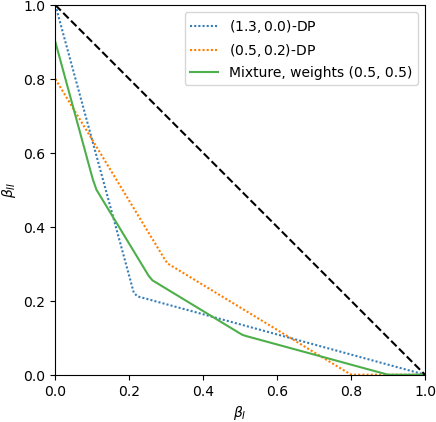
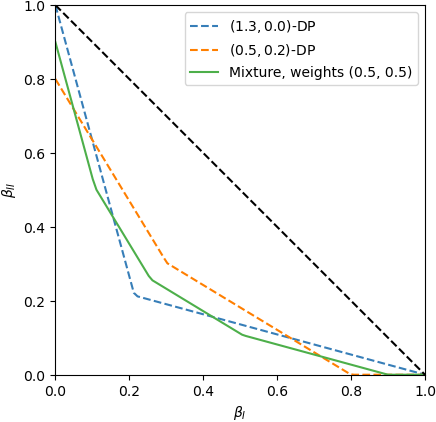
added approximation from above for non-smooth tradeoff functions

diff --git a/src/main.py b/src/main.py
@@ -2,8 +2,9 @@ import numpy as np
 
 from base.tradeoff_function import TradeOffFunction
 from base.utils import plot_multiple_functions, COLOR_1, COLOR_2, COLOR_3
-from f_dp_approximation.gaussian_tradeoff import GaussianTradeoff
-from f_dp_approximation.laplace_tradeoff import LaplaceTradeoff
+from f_dp_approximation.approximations import multi_dp_approx_above
+from f_dp_approximation.smooth_approximation.gaussian_tradeoff import GaussianTradeoff
+from f_dp_approximation.smooth_approximation.laplace_tradeoff import LaplaceTradeoff
 from main_theorems.heterogeneous_version import privacy_region_composition_double_dp_heterogeneous_comp, \
     privacy_region_composition_heterogeneous
 from main_theorems.other_composition_theorems import (privacy_region_composition_exact, tv_of_eps_delta,
@@ -46,8 +47,8 @@ def mixture_example(alpha_1,eps_1, delta_1, eps_2, delta_2, title):
                                              f"Mixture, weights ({alpha_1}, {alpha_2})"
                                              ],
                             [
-                                dotted_custom,
-                                dotted_custom,
+                                "dashed",
+                                "dashed",
                                 "solid"
                             ],
                             save_to=png(title)
@@ -192,8 +193,8 @@ def gaussian_tradeoff_approx(mu, title):
     function.
     """
     g_mu = GaussianTradeoff(mu)
-    g_mu_approx_below = g_mu.approx_from_below()
-    g_mu_approx_above = g_mu.approx_from_above()
+    g_mu_approx_below = g_mu.approx_from_below_2_dp()
+    g_mu_approx_above = g_mu.approx_from_above_2_dp()
     plot_multiple_functions(
         [
             g_mu,
@@ -220,8 +221,8 @@ def gaussian_compos_approx(mu, k, title):
     mu_composed = np.sqrt(k) * mu
     g_mu = GaussianTradeoff(mu)
     g_mu_composed = GaussianTradeoff(mu_composed)
-    g_mu_approx_below = g_mu.approx_from_below()
-    g_mu_approx_above = g_mu.approx_from_above()
+    g_mu_approx_below = g_mu.approx_from_below_2_dp()
+    g_mu_approx_above = g_mu.approx_from_above_2_dp()
 
     eps_ls = g_mu_approx_below.get_eps_list()
     delta_ls = g_mu_approx_below.get_delta_list()
@@ -262,8 +263,8 @@ def gaussian_tradeoff_and_compos_approx(mu, k, title):
     mu_composed = np.sqrt(k) * mu
     g_mu = GaussianTradeoff(mu)
     g_mu_composed = GaussianTradeoff(mu_composed)
-    g_mu_approx_below = g_mu.approx_from_below()
-    g_mu_approx_above = g_mu.approx_from_above()
+    g_mu_approx_below = g_mu.approx_from_below_2_dp()
+    g_mu_approx_above = g_mu.approx_from_above_2_dp()
 
     eps_ls = g_mu_approx_below.get_eps_list()
     delta_ls = g_mu_approx_below.get_delta_list()
@@ -317,8 +318,8 @@ def gaussian_compos_approx_two_compos(mu, k1, k2, title):
     g_mu_composed_k1 = GaussianTradeoff(mu_composed_k1)
     g_mu_composed_k2 = GaussianTradeoff(mu_composed_k2)
 
-    g_mu_approx_below = g_mu.approx_from_below()
-    g_mu_approx_above = g_mu.approx_from_above()
+    g_mu_approx_below = g_mu.approx_from_below_2_dp()
+    g_mu_approx_above = g_mu.approx_from_above_2_dp()
 
     eps_ls = g_mu_approx_below.get_eps_list()
     delta_ls = g_mu_approx_below.get_delta_list()
@@ -380,8 +381,8 @@ def gaussian_compos_approx_tradeoff_and_two_compos(mu, k1, k2, title):
     g_mu_composed_k1 = GaussianTradeoff(mu_composed_k1)
     g_mu_composed_k2 = GaussianTradeoff(mu_composed_k2)
 
-    g_mu_approx_below = g_mu.approx_from_below()
-    g_mu_approx_above = g_mu.approx_from_above()
+    g_mu_approx_below = g_mu.approx_from_below_2_dp()
+    g_mu_approx_above = g_mu.approx_from_above_2_dp()
 
     eps_ls = g_mu_approx_below.get_eps_list()
     delta_ls = g_mu_approx_below.get_delta_list()
@@ -439,8 +440,8 @@ def laplace_tradeoff_approx(eps, title):
     Plot the double-DP lower and upper approximations of the Laplace trade-off composition.
     """
     laplace_eps = LaplaceTradeoff(eps)
-    lap_eps_approx_below = laplace_eps.approx_from_below()
-    laps_eps_approx_above = laplace_eps.approx_from_above()
+    lap_eps_approx_below = laplace_eps.approx_from_below_2_dp()
+    laps_eps_approx_above = laplace_eps.approx_from_above_2_dp()
     plot_multiple_functions(
         [
             laplace_eps,
@@ -451,6 +452,38 @@ def laplace_tradeoff_approx(eps, title):
             f"Laplace({eps})-DP",
             "Approx below",
             "Approx above",
+        ],
+        save_to=png(title)
+    )
+
+def smooth_vs_nonsmooth_above_2dp_approx_gaussian(mu, title):
+    """
+    Compare 2-DP approximations of GDP, assuming smoothness vs not assuming smoothness.
+    """
+    gaussian = GaussianTradeoff(mu)
+    smooth_approx = gaussian.approx_from_above_2_dp()
+    nonsmooth_approx = multi_dp_approx_above(gaussian, 2)
+
+    plot_multiple_functions(
+        [
+            gaussian,
+            nonsmooth_approx,
+            smooth_approx
+        ],
+        [
+            "Gaussian",
+            "Non-smooth Approx",
+            "Smooth Approx"
+        ],
+        [
+            "solid",
+            "dashed",
+            "dotted"
+        ],
+        [
+            COLOR_1,
+            COLOR_2,
+            COLOR_3
         ],
         save_to=png(title)
     )
@@ -476,3 +509,4 @@ if __name__ == "__main__":
     gaussian_compos_approx_tradeoff_and_two_compos(k1=3, k2=10, mu=1, title="gaussian_tradeoff_and_2_compos")
     gaussian_compos_approx_tradeoff_and_two_compos(k1=3, k2=10, mu=0.05, title="gaussian_tradeoff_and_2_compos_small")
     gaussian_tradeoff_and_compos_approx(mu=0.05, k=3, title="gaussian_tradeoff_and_compos_approx_small_single_reg")
+    smooth_vs_nonsmooth_above_2dp_approx_gaussian(mu=1, title="smooth_vs_nonsmooth_2dp_approx_gaussian_above")

diff --git a/src/f_dp_approximation/approximations.py b/src/f_dp_approximation/approximations.py
@@ -1,0 +1,115 @@
+from base.definitions import *
+from base.tradeoff_function import TradeOffFunction
+from multi_dp_mixture.dp_functions import MultiEpsDeltaTradeoff
+
+
+def __upper_approx_golden_section(
+        f: TradeOffFunction,
+        n: int,
+        tol=1e-6,
+        max_iter=1000
+) -> Array:
+    """
+    Finds the partition of [0, c] into n intervals minimizing the area
+    of the n piece piecewise linear upper bound of a trade-off function f.
+    Uses the golden section algorithm.
+
+    :param f: The trade-off function to approximate from above.
+    :type f: TradeOffFunction
+
+    :param n: The number of intervals to partition [0, c].
+    :type n: int
+
+    :param tol: The tolerance for convergence.
+    :type tol: float
+
+    :param max_iter: The maximum number of iterations for the algorithm.
+    :type max_iter: int
+
+    :return: An array of length n containing the partition points.
+    :rtype: Array
+    """
+
+    c = f.fixed_point()
+    p = np.linspace(0, c, n + 1)
+
+    phi = (np.sqrt(5) + 1) / 2
+    resphi = 2 - phi
+
+    for iteration in range(max_iter):
+        max_change = 0.0
+
+        for k in range(1, n):
+            x_prev = p[k - 1]
+            x_next = p[k + 1]
+
+            def trapezoid_area(x_k):
+                return (x_k - x_prev) * (f(x_prev) + f(x_k)) + \
+                    (x_next - x_k) * (f(x_k) + f(x_next))
+
+            a, b = x_prev, x_next
+            x1 = a + resphi * (b - a)
+            x2 = b - resphi * (b - a)
+
+            f1 = trapezoid_area(x1)
+            f2 = trapezoid_area(x2)
+
+            while (b - a) > tol * 0.1: # Tighter tolerance for the 1D search
+                if f1 < f2:
+                    b = x2
+                    x2 = x1
+                    f2 = f1
+                    x1 = a + resphi * (b - a)
+                    f1 = trapezoid_area(x1)
+                else:
+                    a = x1
+                    x1 = x2
+                    f1 = f2
+                    x2 = b - resphi * (b - a)
+                    f2 = trapezoid_area(x2)
+
+            x_new = (a + b) / 2
+
+            # Track maximum change for convergence checking
+            change = np.abs(p[k] - x_new)
+            if change > max_change:
+                max_change = change
+
+            p[k] = x_new
+
+        if max_change < tol:
+            break
+
+    return p
+
+def multi_dp_approx_above(f: TradeOffFunction, n: int) -> MultiEpsDeltaTradeoff:
+    """
+    Compute the best L1 approximation of the trade-off function f from above by an n-DP trade-off function.
+
+    :param f: trade-off function to approximate:
+    :type f: TradeOffFunction
+
+    :param n: number of DP degrees of freedom.
+    :type n: int
+
+    :return: MultiEpsDeltaTradeoff object representing the approximation.
+    :rtype: MultiEpsDeltaTradeoff
+    """
+    p = __upper_approx_golden_section(f, n)
+    p = np.array(sorted(np.unique(p)))
+
+    slopes = np.zeros(len(p)-1)
+    offsets = np.zeros(len(p)-1)
+
+    i = 0
+    while i < len(p)-1:
+        slope = (f(p[i+1]) - f(p[i]))/(p[i+1] - p[i])
+        offset = f(p[i]) - slope * p[i]
+
+        slopes[i] = slope
+        offsets[i] = offset
+        i += 1
+
+    return MultiEpsDeltaTradeoff.from_slopes_and_offsets(slopes, offsets)
+
+

diff --git a/src/multi_dp_mixture/dp_functions.py b/src/multi_dp_mixture/dp_functions.py
@@ -3,6 +3,7 @@ from multi_dp_mixture.piecewise_affine import PiecewiseAffine
 from base.definitions import *
 
 class MultiEpsDeltaTradeoff(PiecewiseAffine, TradeOffFunction):
+
     def __init__(self, eps_ls: Array, delta_ls: Array):
         """
         Represents the tradeoff function of a mechanism with multiple (epsilon, delta)-DP constraints.
@@ -30,11 +31,28 @@ class MultiEpsDeltaTradeoff(PiecewiseAffine, TradeOffFunction):
 
         super().__init__(slopes, intercepts, domain_start=0., domain_end=1., bounded=True)
 
+        self._fixed_point = self.__compute_fixed_point()
+
     def get_eps_list(self) -> Array:
         return self._eps_ls
 
     def get_delta_list(self) -> Array:
         return self._delta_ls
+
+    def fixed_point(self) -> float:
+        return self._fixed_point
+
+    def __compute_fixed_point(self) -> float:
+        candidates = self._intercepts / (1 - self._slopes)
+        values = np.abs(self(candidates) - candidates)
+        return candidates[np.argmin(values)]
+
+    @staticmethod
+    def from_slopes_and_offsets(slopes: Array, offsets: Array) -> 'MultiEpsDeltaTradeoff':
+        return MultiEpsDeltaTradeoff(
+            np.log(-np.array(slopes)),
+            1-np.array(offsets)
+        )
 
 class SingleEpsDeltaTradeoff(MultiEpsDeltaTradeoff):
     def __init__(self, eps: float, delta: float):

diff --git a/src/base/tradeoff_function.py b/src/base/tradeoff_function.py
@@ -8,6 +8,17 @@ class TradeOffFunction(RealFunction, ABC):
     """
 
     @abstractmethod
+    def fixed_point(self) -> float:
+        """
+        Finds and returns the fixed point of a function by solving the equation f(x) = x,
+        where f is defined by an implementation of this instance. Caches the result.
+
+        :return: The fixed point of the function
+        :rtype: float
+        """
+        pass
+
+    @abstractmethod
     def __call__(self, x: Array) -> Array:
         pass
 
@@ -50,5 +61,10 @@ class TradeOffFunction(RealFunction, ABC):
 
             def __call__(self, x: Array) -> Array:
                 return np.max(np.array([f(x) for f in f_arr]), axis=0)
+
+            def fixed_point(self) -> float:
+                candidates = np.array([f.fixed_point() for f in f_arr])
+                values = np.abs(self(candidates) - candidates)
+                return candidates[np.argmin(values)]
 
         return IntersectedTradeoffFunction()

diff --git a/src/base/smooth_tradeoff_function.py b/src/base/smooth_tradeoff_function.py
@@ -135,7 +135,7 @@ class SmoothTradeOffFunction(TradeOffFunction, ABC):
          """
         return 1 - np.sqrt(2) * beta/(alpha + 1)
 
-    def approx_from_below(self, g: 'NormalRotation' = None) -> MultiEpsDeltaTradeoff:
+    def approx_from_below_2_dp(self, g: 'NormalRotation' = None) -> MultiEpsDeltaTradeoff:
         """
         Compute an approximation from below for the given tradeoff function.
 
@@ -174,7 +174,7 @@ class SmoothTradeOffFunction(TradeOffFunction, ABC):
 
         return MultiEpsDeltaTradeoff([eps_1, eps_2], [delta_1, delta_2])
 
-    def approx_from_above(self) -> MultiEpsDeltaTradeoff:
+    def approx_from_above_2_dp(self) -> MultiEpsDeltaTradeoff:
         """
         Computes an approximation from above for the tradeoff function, using provided
         methods to calculate derivatives and fixed points. Depending on conditions, it

diff --git a/src/f_dp_approximation/smooth_approximation/gaussian_tradeoff.py b/src/f_dp_approximation/smooth_approximation/gaussian_tradeoff.py
@@ -1,5 +1,5 @@
 from base.definitions import *
-from f_dp_approximation.smooth_tradeoff_function import SmoothTradeOffFunction
+from base.smooth_tradeoff_function import SmoothTradeOffFunction
 
 
 class GaussianTradeoff(SmoothTradeOffFunction):

diff --git a/src/f_dp_approximation/smooth_approximation/laplace_tradeoff.py b/src/f_dp_approximation/smooth_approximation/laplace_tradeoff.py
@@ -1,4 +1,4 @@
-from f_dp_approximation.smooth_tradeoff_function import SmoothTradeOffFunction
+from base.smooth_tradeoff_function import SmoothTradeOffFunction
 from base.definitions import *
 
 
